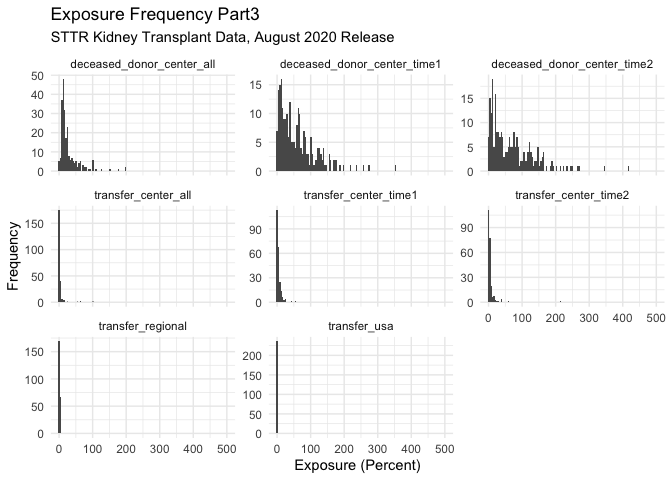
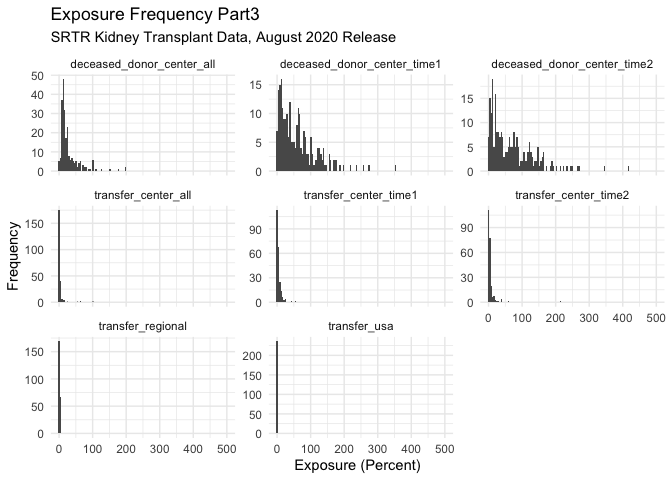
Updated plots

Changed region(s): [[0.0938, 0.0625, 0.5938, 0.0938]]

diff --git a/code/KidneyDataMS.md b/code/KidneyDataMS.md
@@ -303,7 +303,7 @@ I will plot the first set of exposure variables
 
 ``` r
 x1 = df_one_merge[, c(6:20)]
-ggplot(gather(x1), aes(value)) + geom_histogram(bins = 100) + facet_wrap(~key, scales = "free_y")  +coord_cartesian(xlim = c(0, 2000)) + labs(title = "Exposure Frequency Part1", subtitle = "STTR Kidney Transplant Data, August 2020 Release", x = "Exposure (Percent)", y = "Frequency") + theme_minimal()
+ggplot(gather(x1), aes(value)) + geom_histogram(bins = 100) + facet_wrap(~key, scales = "free_y")  +coord_cartesian(xlim = c(0, 2000)) + labs(title = "Exposure Frequency Part1", subtitle = "SRTR Kidney Transplant Data, August 2020 Release", x = "Exposure (Percent)", y = "Frequency") + theme_minimal()
 ```
 
     ## Warning: Removed 30 rows containing non-finite values (stat_bin).
@@ -323,7 +323,7 @@ plot the third set of exposure variables
 
 ``` r
 x3 = df_one_merge[, c(36:43)]
-ggplot(gather(x3), aes(value)) + geom_histogram(bins = 100) + facet_wrap(~key, scales = "free_y") +coord_cartesian(xlim = c(0, 500)) + labs(title = "Exposure Frequency Part3", subtitle = "STTR Kidney Transplant Data, August 2020 Release", x = "Exposure (Percent)", y = "Frequency") + theme_minimal()
+ggplot(gather(x3), aes(value)) + geom_histogram(bins = 100) + facet_wrap(~key, scales = "free_y") +coord_cartesian(xlim = c(0, 500)) + labs(title = "Exposure Frequency Part3", subtitle = "SRTR Kidney Transplant Data, August 2020 Release", x = "Exposure (Percent)", y = "Frequency") + theme_minimal()
 ```
 
     ## Warning: Removed 16 rows containing non-finite values (stat_bin).
@@ -344,7 +344,7 @@ I will plot the fifth set of exposure variables
 
 ``` r
 x5 = df_one_merge[, c(52:60)]
-ggplot(gather(x5), aes(value)) + geom_histogram(bins = 100) + facet_wrap(~key, scales = "free_y") +coord_cartesian(xlim = c(0, 2000)) + labs(title = "Exposure Frequency Part5", subtitle = "STTR Kidney Transplant Data, August 2020 Release", x = "Exposure (Percent)", y = "Frequency") + theme_minimal()
+ggplot(gather(x5), aes(value)) + geom_histogram(bins = 100) + facet_wrap(~key, scales = "free_y") +coord_cartesian(xlim = c(0, 2000)) + labs(title = "Exposure Frequency Part5", subtitle = "SRTR Kidney Transplant Data, August 2020 Release", x = "Exposure (Percent)", y = "Frequency") + theme_minimal()
 ```
 
     ## Warning: Removed 18 rows containing non-finite values (stat_bin).
@@ -368,7 +368,7 @@ str(df_outcomes)
     ##  $ newlistings_percent_recovered     : num  0 0 0 0 0 ...
 
 ``` r
-ggplot(gather(df_outcomes), aes(value)) + geom_histogram(bins = 30) + facet_wrap(~key, scales = "free_y") + coord_cartesian(xlim = c(0, 100)) + labs(title = "Outcome Frequency", subtitle = "STTR Kidney Transplant Data, August 2020 Release", x = "Outcome (Percent)", y = "Frequency") + theme_minimal()
+ggplot(gather(df_outcomes), aes(value)) + geom_histogram(bins = 30) + facet_wrap(~key, scales = "free_y") + coord_cartesian(xlim = c(0, 100)) + labs(title = "Outcome Frequency", subtitle = "SRTR Kidney Transplant Data, August 2020 Release", x = "Outcome (Percent)", y = "Frequency") + theme_minimal()
 ```
 
 ![](KidneyDataMS_files/figure-gfm/unnamed-chunk-12-1.png)<!-- -->
@@ -392,7 +392,7 @@ Now I will plot the number of kidney transplant centers by zipcode.
 ``` r
 df_one_merge %>% ggplot(aes(zipcode)) + geom_histogram(bins = 50) + 
   labs(
-    title = "Transplant Center Frequency by Zipcode", subtitle = "STTR Kidney Transplant Data, August 2020 Release",
+    title = "Transplant Center Frequency by Zipcode", subtitle = "SRTR Kidney Transplant Data, August 2020 Release",
     x = "Zipcode",
     y = "Transplant Center Count"
   ) + theme_minimal()
@@ -617,7 +617,7 @@ df_demographics_pivot =
 
 plot = df_demographics_pivot %>% ggplot(aes(x=zipcode, y =race_category_percent, color = race_category)) + geom_point()+ 
   labs(
-    title = "Patient Demographics by Zipcode",subtitle = "STTR Kidney Transplant Data, August 2020 Release",
+    title = "Patient Demographics by Zipcode",subtitle = "SRTR Kidney Transplant Data, August 2020 Release",
     x = "Zipcode",
     y = "Race (Percent)", color = "Race"
   ) + theme_minimal() + scale_color_hue(labels = c("African American", "Asian", "Hispanic or Latino", "Other", "Unknown", "White"))
@@ -641,7 +641,7 @@ df_age_pivot =
 #view(df_age_pivot)
 plot = df_age_pivot %>% ggplot(aes(x=zipcode, y =age_category_percent, color = age_category)) + geom_point() + 
   labs(
-    title = "Patient Age Groups by Zipcode", subtitle = "STTR Kidney Transplant Data, August 2020 Release",
+    title = "Patient Age Groups by Zipcode", subtitle = "SRTR Kidney Transplant Data, August 2020 Release",
     x = "Zipcode",
     y = "Age Group (Percent)", color = "Age Group"
   ) + theme_minimal()  + scale_color_hue(labels = c("Less Than 2 Years", "2 to 11 Years", "12 to 17 Years", "18 to 34 Years", "35 to 49 Years", "50 to 64 Years", "64 to 69 Years", "More Than 70 Years"))
@@ -666,7 +666,7 @@ df_gender_pivot =
 #view(df_gender_pivot)
 plot = df_gender_pivot %>% ggplot(aes(x=zipcode, y =gender_category_percent, color = gender_category)) + geom_point()+ 
   labs(
-    title = "Patient Gender Groups by Zipcode", subtitle = "STTR Kidney Transplant Data, August 2020 Release",
+    title = "Patient Gender Groups by Zipcode", subtitle = "SRTR Kidney Transplant Data, August 2020 Release",
     x = "Zipcode",
     y = "Gender Group (Percent)", , color = "Gender"
   ) + theme_minimal() + scale_color_hue(labels = c("Female", "Male"))
@@ -692,9 +692,9 @@ df_comorbidities_pivot =
 #view(df_comorbidities_pivot)
 plot = df_comorbidities_pivot %>% ggplot(aes(x=zipcode, y =comorbidity_category_percent, color = comorbidity_category)) + geom_point()+ 
   labs(
-    title = "Patient Comorbidity Groups by Zipcode", subtitle = "STTR Kidney Transplant Data, August 2020 Release",
+    title = "Patient Comorbidity Groups by Zipcode", subtitle = "SRTR Kidney Transplant Data, August 2020 Release",
     x = "Zipcode",
-    y = "Comorbidity Group (Percent)", , color = "Comorbidity"
+    y = "Comorbidity Group (Percent)", color = "Comorbidity"
   ) + theme_minimal() + scale_color_hue(labels = c("Congenital, Familial or Metabolic", "Diabetes", "Golmerular Disease", "Hypertensive Nephrosclerosis", "Neoplasms", "Polycystic Kidneys", "No Prior Transplant", "Prior Transplant Unknown", "Prior Transplant", "Missing Primary Disease", "Other Primary Disease", "Renovascular or Vascular Disease", "Retransplant Graft Failure", "Tubular and Interstitial Diseases"))
 plot
 ```
@@ -717,10 +717,10 @@ df_blood_type_pivot =
 #view(df_blood_type_pivot)
 plot = df_blood_type_pivot %>% ggplot(aes(x=zipcode, y =blood_type_category_percent, color = blood_type_category)) + geom_point()+ 
   labs(
-    title = "Patient Blood Type Groups by Zipcode", subtitle = "STTR Kidney Transplant Data, August 2020 Release",
+    title = "Patient Blood Type Groups by Zipcode", subtitle = "SRTR Kidney Transplant Data, August 2020 Release",
     x = "Zipcode",
-    y = "Blood Type Group (Percent)", , color = "Blood Type"
-  ) + theme_minimal() + scale_color_hue(labels = c("Blood Type A", "Blood Type AB", "Blood Type B", "Blood Type O", "Blood Type Unknown"))
+    y = "Blood Type Group (Percent)", color = "Blood Type"
+  ) + theme_minimal() + scale_color_hue(labels = c("A", "AB", "B", " O", "Unknown"))
 plot
 ```
 
@@ -744,10 +744,10 @@ df_pra_pivot =
 #view(df_pra_pivot)
 plot = df_pra_pivot %>% ggplot(aes(x=zipcode, y =pra_category_percent, color = pra_category)) + geom_point()+ 
   labs(
-    title = "Patient PRA Score Groups by Zipcode", subtitle = "STTR Kidney Transplant Data, August 2020 Release",
+    title = "Patient PRA Score Groups by Zipcode", subtitle = "SRTR Kidney Transplant Data, August 2020 Release",
     x = "Zipcode",
     y = "PRA Score Group (Percent)", color = "PRA Score Group"
-  ) + theme_minimal() + scale_color_hue(labels = c("PRA Score 0 to 9", "PRA Score 10 to 79", "PRA Score 80 or Higher", "PRA Score Unknown"))
+  ) + theme_minimal() + scale_color_hue(labels = c("0 to 9", "10 to 79", "80 or Higher", "Unknown"))
 plot
 ```
 
@@ -759,7 +759,7 @@ to investigate for correlations.
 df_pra_comorbid = merge(df_pra_pivot, df_comorbidities_pivot)
 #view(df_pra_comorbid)
 plot = df_pra_comorbid %>% ggplot(aes(x=comorbidity_category_percent, y =pra_category_percent, color =pra_category)) + geom_point() + labs(
-    title = "PRA Scores vs. Comorbidities", x ="Comorbidities (Percent)",subtitle = "STTR Kidney Transplant Data, August 2020 Release", y = "PRA Score (Percent)", color = "PRA Score Group") + theme_minimal() + scale_color_hue(labels = c("PRA Score 0 to 9", "PRA Score 10 to 79", "PRA Score 80 or Higher", "PRA Score Unknown")) + facet_wrap(~comorbidity_category)
+    title = "PRA Scores vs. Comorbidities", x ="Comorbidities (Percent)",subtitle = "SRTR Kidney Transplant Data, August 2020 Release", y = "PRA Score (Percent)", color = "PRA Score Group") + theme_minimal() + scale_color_hue(labels = c("0 to 9", "10 to 79", "80 or Higher", "Unknown")) + facet_wrap(~comorbidity_category)
 plot
 ```
 
@@ -779,7 +779,7 @@ to investigate for correlations.
 df_pra_age = merge(df_pra_pivot, df_age_pivot)
 #view(df_pra_age)
 plot = df_pra_age %>% ggplot(aes(x=age_category_percent, y =pra_category_percent, color =pra_category)) + geom_point() + facet_wrap(~age_category) + labs(
-    title = "PRA Scores vs. Age Groups", subtitle = "STTR Kidney Transplant Data, August 2020 Release",x ="Age Groups (Percent)", y = "PRA Score (Percent)", color = "PRA Score Group") + theme_minimal() + scale_color_hue(labels = c("PRA Score 0 to 9", "PRA Score 10 to 79", "PRA Score 80 or Higher", "PRA Score Unknown"))
+    title = "PRA Scores vs. Age Groups", subtitle = "SRTR Kidney Transplant Data, August 2020 Release",x ="Age Groups (Percent)", y = "PRA Score (Percent)", color = "PRA Score Group") + theme_minimal() + scale_color_hue(labels = c("0 to 9", "10 to 79", "80 or Higher", "Unknown"))
 plot
 ```
 
@@ -798,7 +798,7 @@ investigate for correlations.
 df_pra_gender = merge(df_pra_pivot, df_gender_pivot)
 #view(df_pra_gender)
 plot = df_pra_gender %>% ggplot(aes(x=gender_category_percent, y =pra_category_percent, color =pra_category)) + geom_point() + facet_wrap(~gender_category) + labs(
-    title = "PRA Scores vs. Gender Groups", subtitle = "STTR Kidney Transplant Data, August 2020 Release", x ="Gender Groups (Percent)", y = "PRA Score (Percent)" , color = "PRA Score Group") + theme_minimal() + scale_color_hue(labels = c("PRA Score 0 to 9", "PRA Score 10 to 79", "PRA Score 80 or Higher", "PRA Score Unknown"))
+    title = "PRA Scores vs. Gender Groups", subtitle = "SRTR Kidney Transplant Data, August 2020 Release", x ="Gender Groups (Percent)", y = "PRA Score (Percent)" , color = "PRA Score Group") + theme_minimal() + scale_color_hue(labels = c("0 to 9", "10 to 79", "80 or Higher", "Unknown"))
 plot
 ```
 
@@ -817,7 +817,7 @@ plots to investigate for correlations.
 df_pra_demographics = merge(df_pra_pivot, df_demographics_pivot)
 #view(df_pra_demographics)
 plot = df_pra_demographics %>% ggplot(aes(x=race_category_percent, y =pra_category_percent, color =pra_category)) + geom_point() + facet_wrap(~race_category) + labs(
-    title = "PRA Scores vs. Race", subtitle = "STTR Kidney Transplant Data, August 2020 Release", x ="Race (Percent)", y = "PRA Score (Percent)" , color = "PRA Score Group") + theme_minimal() + scale_color_hue(labels = c("PRA Score 0 to 9", "PRA Score 10 to 79", "PRA Score 80 or Higher", "PRA Score Unknown"))
+    title = "PRA Scores vs. Race", subtitle = "SRTR Kidney Transplant Data, August 2020 Release", x ="Race (Percent)", y = "PRA Score (Percent)" , color = "PRA Score Group") + theme_minimal() + scale_color_hue(labels = c("0 to 9", "10 to 79", "80 or Higher", "Unknown"))
 plot
 ```
 
@@ -836,7 +836,7 @@ plots to investigate for correlations.
 df_pra_blood_type = merge(df_pra_pivot, df_blood_type_pivot)
 #view(df_pra_blood_type)
 plot = df_pra_blood_type %>% ggplot(aes(x=blood_type_category_percent, y =pra_category_percent, color =pra_category)) + geom_point() + facet_wrap(~blood_type_category)+ labs(
-    title = "PRA Scores vs. Blood Type", subtitle = "STTR Kidney Transplant Data, August 2020 Release", x ="Blood Type (Percent)", y = "PRA Score (Percent)", color = "PRA Score Group") + theme_minimal() + scale_color_hue(labels = c("PRA Score 0 to 9", "PRA Score 10 to 79", "PRA Score 80 or Higher", "PRA Score Unknown"))
+    title = "PRA Scores vs. Blood Type", subtitle = "SRTR Kidney Transplant Data, August 2020 Release", x ="Blood Type (Percent)", y = "PRA Score (Percent)", color = "PRA Score Group") + theme_minimal() + scale_color_hue(labels = c("0 to 9", "10 to 79", "80 or Higher", "Unknown"))
 plot
 ```
 
